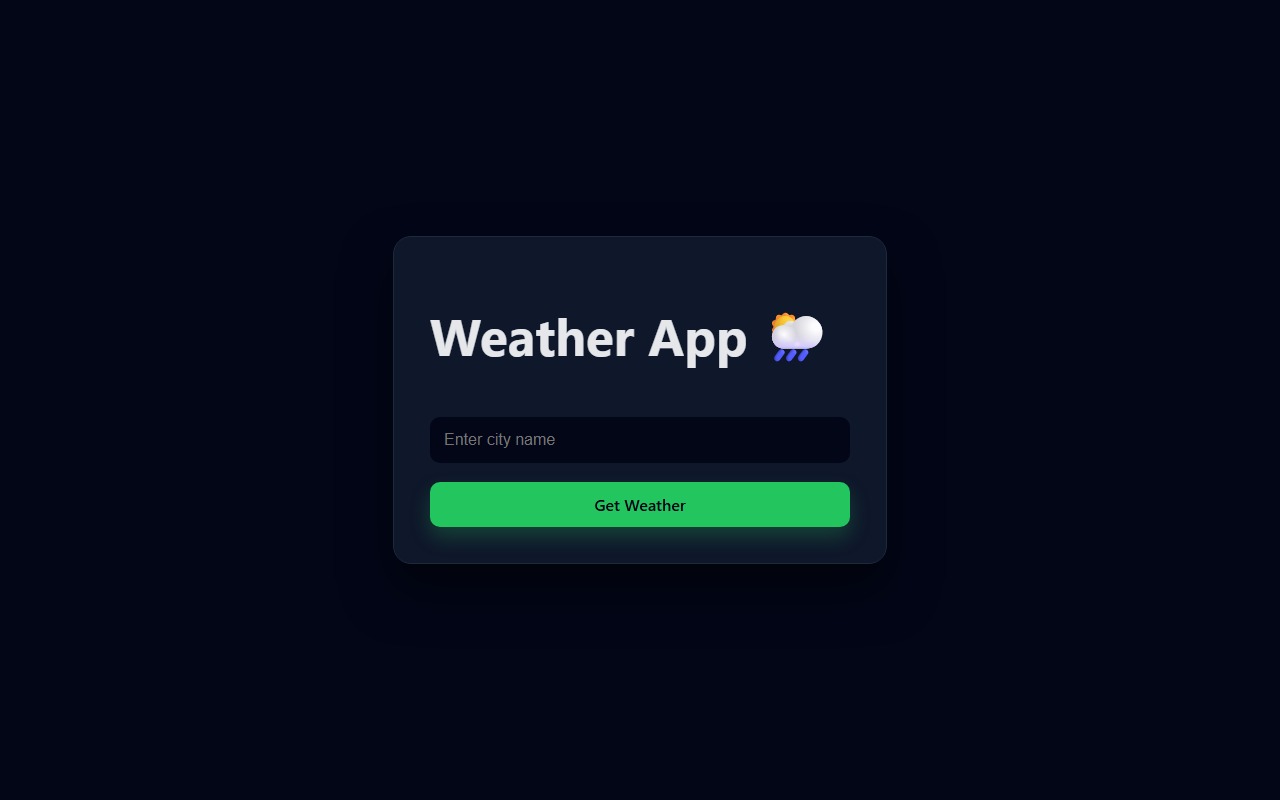
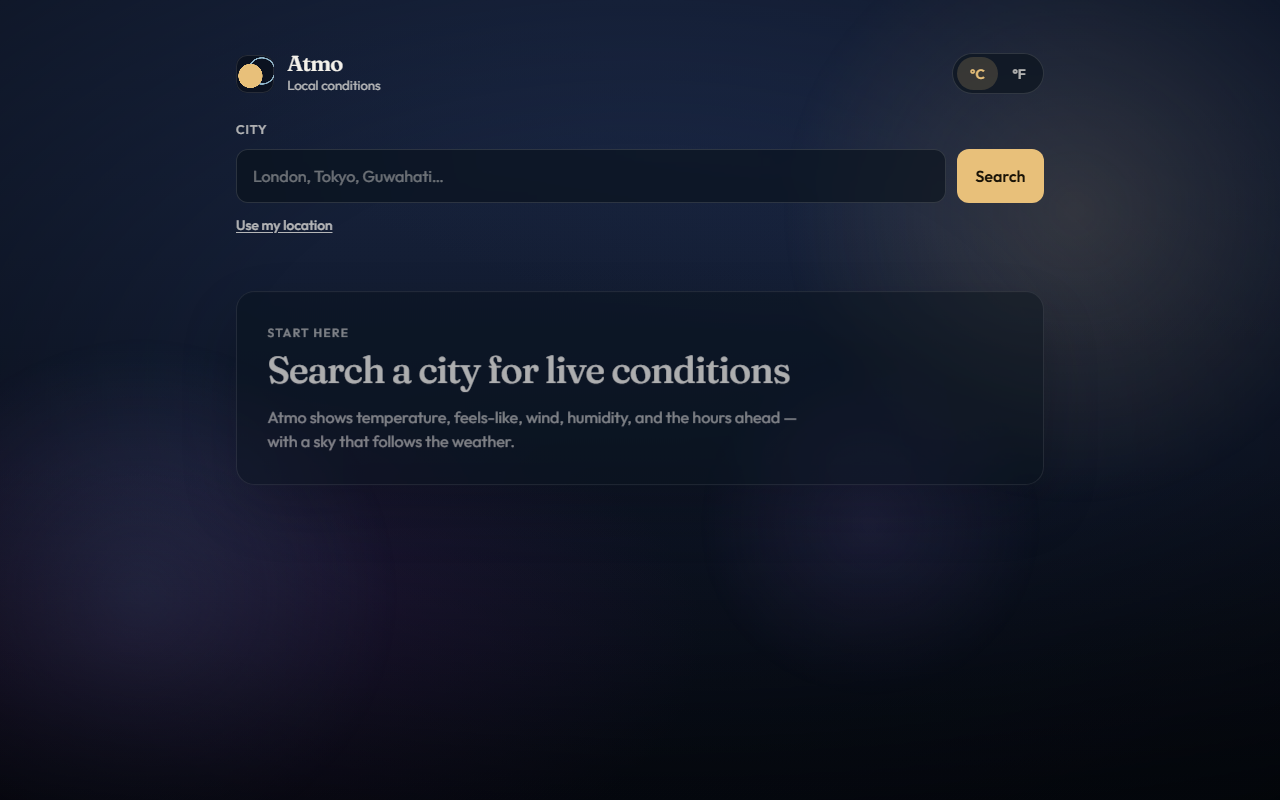
Point Weather App to Atmo and refresh its screenshot.

diff --git a/src/App.jsx b/src/App.jsx
@@ -13,7 +13,7 @@ const projects = [
   {
     title: "Weather App",
     desc: "Looks up live conditions with the OpenWeather API, including loading and error states so the UI stays honest when the network fails.",
-    live: "https://Frosty3316.github.io/weather-app/",
+    live: "https://atmo-pink.vercel.app/",
     tech: "React, API, JavaScript",
     accent: "#38bdf8",
     image: "projects/weather.png",
